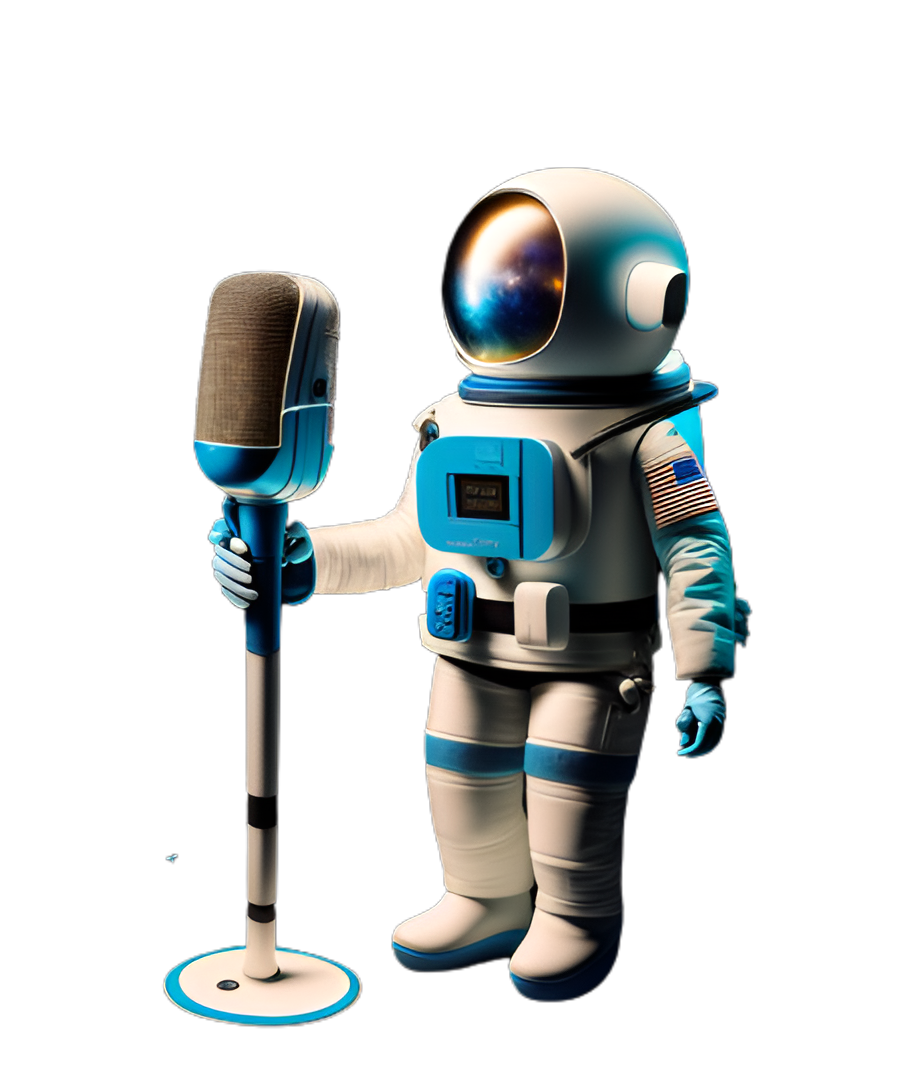
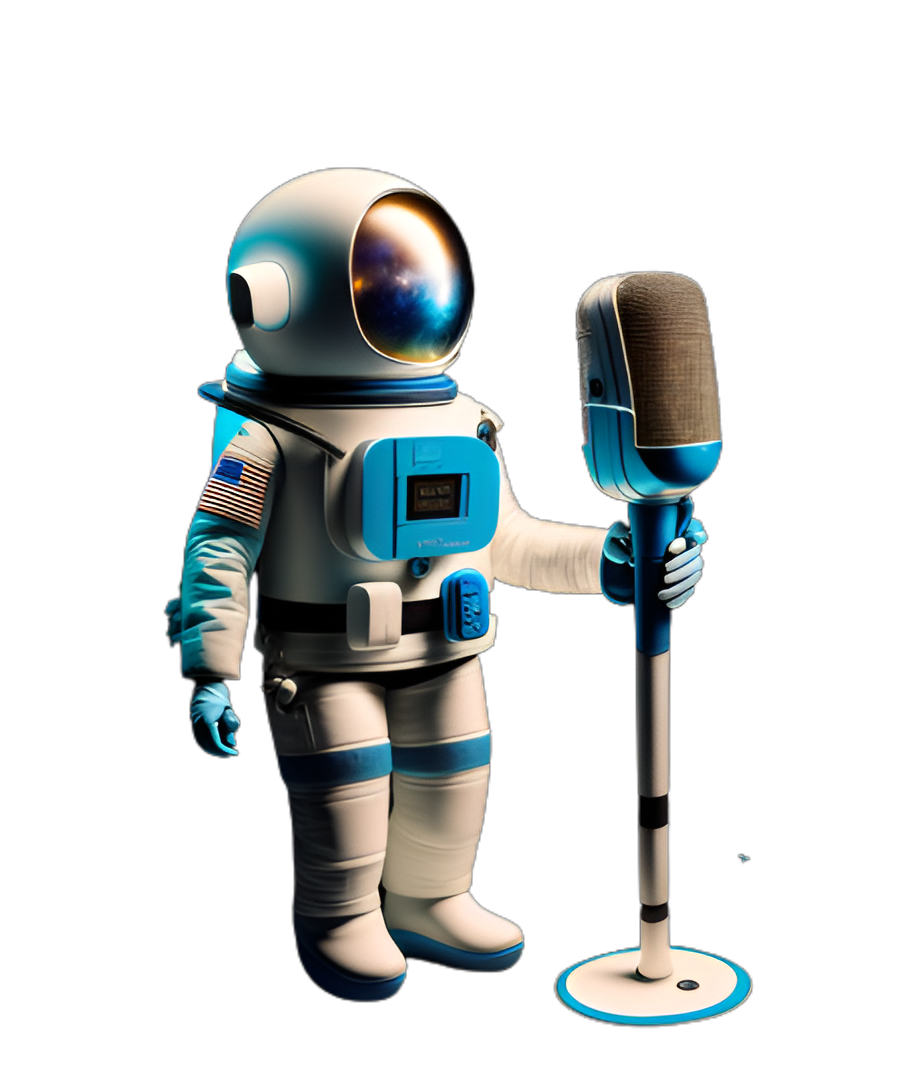
Changes video embed and services style

diff --git a/index.html b/index.html
@@ -116,59 +116,77 @@
 
   <section class="services-sec" id="services">
     <div class="services-text-container">
-      <div class="service-text-container">
-        <img src="./static/product_demo_img.png" alt="product_demo_img" class="mobile_view_services_img">
-        <h1> <span> Product Demo </span> Video <span class="showRight-animate"></span></h1>
-        <p data-aos="fade-zoom-in">Create compelling promo videos that leave a lasting impression, captivating audiences, and driving conversions for your business by connecting, intriguing, and motivating them to take action.</p>
+      <div class="service-container s-right">
+        <div class="services-img-container si-right" data-tilt data-tilt-full-page-listening>
+          <img data-aos="fade-zoom-in" src="./static/product_demo_img.png" alt="product_demo_img" class="services_img">
+        </div>
+        <div class="service-text-container st-left">
+          <h1> <span> Product Demo </span> Video <span class="showRight-animate"></span></h1>
+          <p data-aos="fade-zoom-in">Create compelling promo videos that leave a lasting impression, captivating audiences, and driving conversions for your business by connecting, intriguing, and motivating them to take action.</p>
+        </div>
       </div>
-      <div class="service-text-container">
-        <img src="./static/social_media_videos_img.png" alt="social_media_videos_img" class="mobile_view_services_img">
-        <h1> <span> Social Media </span> Videos <span class="showRight-animate"></span></h1>
-        <p data-aos="fade-zoom-in">Engage and captivate your audience with dynamic social media video content offering an interactive and immersive experience that enhances brand exposure and user engagement.</p>
+      <div class="service-container">
+        <div class="services-img-container si-left" data-tilt data-tilt-full-page-listening>
+          <img data-aos="fade-zoom-in" src="./static/social_media_videos_img.png" alt="social_media_videos_img" class="services_img">
+        </div>
+        <div class="service-text-container st-right">
+          <h1> <span> Social Media </span> Videos <span class="showRight-animate"></span></h1>
+          <p data-aos="fade-zoom-in">Engage and captivate your audience with dynamic social media video content offering an interactive and immersive experience that enhances brand exposure and user engagement.</p>
+        </div>
       </div>
-      <div class="service-text-container">
-        <img src="./static/explainer_videos_img.png" alt="explainer_videos_img" class="mobile_view_services_img">
-        <h1> <span> Explainer </span> Videos <span class="showRight-animate"></span></h1>
-        <p data-aos="fade-zoom-in">Explainer videos show your customers how your product or service works and why it adds value. It answers the essentials - who, what, where, why and how?</p>
+      <div class="service-container s-right">
+        <div class="services-img-container si-right" data-tilt data-tilt-full-page-listening>
+          <img data-aos="fade-zoom-in" src="./static/explainer_videos_img.png" alt="explainer_videos_img" class="services_img">
+        </div>
+        <div class="service-text-container st-left">
+          <h1> <span> Explainer </span> Videos <span class="showRight-animate"></span></h1>
+          <p data-aos="fade-zoom-in">Explainer videos show your customers how your product or service works and why it adds value. It answers the essentials - who, what, where, why and how?</p>
+        </div>
       </div>
-      <div class="service-text-container">
-        <img src="./static/host_img.png" alt="host_img" class="mobile_view_services_img">
-        <h1> <span> Host </span> <span class="showRight-animate"></span></h1>
-        <p data-aos="fade-zoom-in">Vir shines as an accomplished actor, captivating host, and charismatic voice-over talent. With a magnetic presence Vir brings boundless energy and unforgettable experiences, both on stage and screen, leaving a lasting impact on audiences.</p>
+      <div class="service-container">
+        <div class="services-img-container si-left" data-tilt data-tilt-full-page-listening>
+          <img data-aos="fade-zoom-in" src="./static/host_img.png" alt="host_img" class="services_img">
+        </div>
+        <div class="service-text-container st-right">
+          <h1> <span> Host </span> <span class="showRight-animate"></span></h1>
+          <p data-aos="fade-zoom-in">Vir shines as an accomplished actor, captivating host, and charismatic voice-over talent. With a magnetic presence Vir brings boundless energy and unforgettable experiences, both on stage and screen, leaving a lasting impact on audiences.</p>
+        </div>
       </div>
-      <div class="service-text-container">
-        <img src="./static/event_video_production_img.png" alt="event_video_production_img" class="mobile_view_services_img">
-        <h1> <span> Event Video </span> Production <span class="showRight-animate"></span></h1>
-        <p data-aos="fade-zoom-in">Whether it's Award Ceremony Videos, Conference Videos, Publicity Event Videos, Launch Party Videos, or Vox Pops Videos, we have it all covered for you.</p>
+      <div class="service-container s-right">
+        <div class="services-img-container si-right" data-tilt data-tilt-full-page-listening>
+          <img data-aos="fade-zoom-in" src="./static/event_video_production_img.png" alt="event_video_production_img" class="services_img">
+        </div>
+        <div class="service-text-container st-left">
+          <h1> <span> Event Video </span> Production <span class="showRight-animate"></span></h1>
+          <p data-aos="fade-zoom-in">Whether it's Award Ceremony Videos, Conference Videos, Publicity Event Videos, Launch Party Videos, or Vox Pops Videos, we have it all covered for you.</p>
+        </div>
       </div>
-      <div class="service-text-container">
-        <img src="./static/social_media_management_img.png" alt="social_media_management_img" class="mobile_view_services_img">
-        <h1> <span> Social Media </span> Management <span class="showRight-animate"></span></h1>
-        <p data-aos="fade-zoom-in">We are aiming to communicate & amplify your brands voice and mission on social media to reach as many people as possible.</p>
+      <div class="service-container">
+        <div class="services-img-container si-left" data-tilt data-tilt-full-page-listening>
+          <img data-aos="fade-zoom-in" src="./static/social_media_management_img.png" alt="social_media_management_img" class="services_img">
+        </div>
+        <div class="service-text-container st-right">
+          <h1> <span> Social Media </span> Management <span class="showRight-animate"></span></h1>
+          <p data-aos="fade-zoom-in">We are aiming to communicate & amplify your brands voice and mission on social media to reach as many people as possible.</p>
+        </div>
       </div>
     </div>
-    <div class="services-img-container" data-tilt data-tilt-full-page-listening>
-      <!-- <img src="./static/frame_top_img.svg" alt="frame_top_img" id="frame_top_img">
-      <div class="rectangular-frame">
-        <img src="./static/video_ads_img.svg" alt="video_ads_img" id="frame_inside_img">
-      </div>
-      <img src="./static/frame_bottom_front_img.svg" alt="frame_bottom_front_img" id="frame_bottom_front_img">
-      <img src="./static/frame_bottom_back_img.svg" alt="frame_bottom_back_img" id="frame_bottom_back_img"> -->
+    <!-- <div class="services-img-container" data-tilt data-tilt-full-page-listening>
       <img src="./static/product_demo_img.png" alt="product_demo_img" id="frame_inside_img">
-    </div>
+    </div> -->
   </section>
 
-  <section>
+  <section id="video_container">
     <h1 class="video_container_heading">Some of our work... <span class="showRight-animate"></span></h1>
     <div class="video_container">
-      <iframe data-aos="fade-right" src="https://www.youtube.com/embed/8PwX65BLBvc?vq=hd1080" title="YouTube video player" frameborder="0" allow="accelerometer; autoplay; clipboard-write; encrypted-media; gyroscope; picture-in-picture; web-share" allowfullscreen></iframe>
-      <iframe data-aos="fade-left" src="https://www.youtube.com/embed/cpikYyQ4bn4?vq=hd1080" title="YouTube video player" frameborder="0" allow="accelerometer; autoplay; clipboard-write; encrypted-media; gyroscope; picture-in-picture; web-share" allowfullscreen></iframe>
-      <iframe data-aos="fade-right" src="https://player.vimeo.com/video/785447476?h=6ea975ba4e&title=0&byline=0&portrait=0&quality=1080p" title="vimeo-player" frameborder="0" allowfullscreen></iframe>
-      <!-- <iframe data-aos="fade-right" src="https://drive.google.com/file/d/1X8IojxZmvGGHUOEhP70N3ZeSogzah58J/preview?vq=hd1080" allow="autoplay" frameborder="0" allowfullscreen></iframe> -->
-      <!-- <iframe data-aos="fade-left" src="https://www.youtube.com/embed/luSrhKcgix4?vq=hd1080" title="YouTube video player" frameborder="0" allow="accelerometer; autoplay; clipboard-write; encrypted-media; gyroscope; picture-in-picture; web-share" allowfullscreen></iframe> -->
-      <iframe data-aos="fade-left" src="https://www.youtube.com/embed/luSrhKcgix4?loop=1&controls=1&showinfo=0&rel=0&modestbranding=1&enablejsapi=1&wmode=transparent" frameborder="0" allowfullscreen></iframe>
+      <video data-aos="fade-right" src="static/video1.mp4" controls preload="none" title="Video player" frameBorder="0" allowFullScreen poster="static/video1_img.jpg" onClick={handlePlay}></video>
+      <video data-aos="fade-left" src="static/video2.mp4" controls preload="none" title="Video player" frameBorder="0" allowFullScreen poster="static/video2_img.png" onClick={handlePlay}></video>
+      <video data-aos="fade-right" src="static/video3.mp4" controls preload="none" title="Video player" frameBorder="0" allowFullScreen poster="static/video3_img.png" onClick={handlePlay}></video>
+      <video data-aos="fade-left" src="static/video4.mp4" controls preload="none" title="Video player" frameBorder="0" allowFullScreen poster="static/video4_img.jpg" onClick={handlePlay}></video>
+      <video data-aos="fade-right" src="static/video5.mp4" controls preload="none" title="Video player" frameBorder="0" allowFullScreen poster="static/video5_img.png" onClick={handlePlay}></video>
+      <video data-aos="fade-left" src="static/video6.mp4" controls preload="none" title="Video player" frameBorder="0" allowFullScreen poster="static/video6_img.png" onClick={handlePlay}></video>
     </div>
-    </section>
+  </section>
 
   <section class="content_market_place_sec">
     <h1><span>A match made in Content marketing heaven.</span> <span class="showRight-animate"></span></h1>
@@ -200,34 +218,6 @@
   <script src="./cursor.js"></script>
   <script>
     AOS.init();
-  </script>
-  <script>
-    function loadYouTubePlayerAPI(callback) {
-      const tag = document.createElement('script');
-      tag.src = 'https://www.youtube.com/iframe_api';
-      const firstScriptTag = document.getElementsByTagName('script')[0];
-      firstScriptTag.parentNode.insertBefore(tag, firstScriptTag);
-      window.onYouTubeIframeAPIReady = callback;
-    }
-
-    function createYouTubePlayer() {
-      const player = new YT.Player('youtube-player', {
-        height: '315',
-        width: '560',
-        playerVars: {
-          autoplay: 0,
-          loop: 1,
-          controls: 1,
-          showinfo: 0,
-          modestbranding: 1,
-          playsinline: 1,
-          origin: window.location.origin,
-          enablejsapi: 1,
-          wmode: 'transparent',
-          vq: 'hd1080',
-        },
-      });
-    }
   </script>
 </body>
 </html>

diff --git a/script.js b/script.js
@@ -57,45 +57,45 @@ window.addEventListener('scroll', function() {
     document.querySelector('.floating-meet-btn').style.display = 'block';
   }
 
-  if (scrollTop >= sectionOffset && scrollTop <= sectionOffset + sectionHeight - windowHeight) {
-    servicesImgContainer.style.position = 'fixed';
-    servicesImgContainer.style.top = '0';
-  }
-  else if (scrollTop >= sectionOffset + sectionHeight - windowHeight) {
-    servicesImgContainer.style.position = 'absolute';
-    servicesImgContainer.style.top = 'auto';
-    servicesImgContainer.style.bottom = '0';
-  }
-  else {
-    servicesImgContainer.style.position = 'absolute';
-    servicesImgContainer.style.top = '0';
-    servicesImgContainer.style.bottom = 'auto';
-  }
+  // if (scrollTop >= sectionOffset && scrollTop <= sectionOffset + sectionHeight - windowHeight) {
+  //   servicesImgContainer.style.position = 'fixed';
+  //   servicesImgContainer.style.top = '0';
+  // }
+  // else if (scrollTop >= sectionOffset + sectionHeight - windowHeight) {
+  //   servicesImgContainer.style.position = 'absolute';
+  //   servicesImgContainer.style.top = 'auto';
+  //   servicesImgContainer.style.bottom = '0';
+  // }
+  // else {
+  //   servicesImgContainer.style.position = 'absolute';
+  //   servicesImgContainer.style.top = '0';
+  //   servicesImgContainer.style.bottom = 'auto';
+  // }
 
-  if(scrollTop <= sectionOffset + windowHeight/2){
-    frameInsideImg.src = "./static/product_demo_img.png";
-    frameInsideImg.alt = "product_demo_img";
-  }
-  else if(scrollTop > sectionOffset + windowHeight/2 && scrollTop <= sectionOffset + (3/2)*windowHeight){
-    frameInsideImg.src = "./static/social_media_videos_img.png";
-    frameInsideImg.alt = "social_media_videos_img";
-  }
-  else if(scrollTop > sectionOffset + (3/2)*windowHeight && scrollTop <= sectionOffset + (5/2)*windowHeight){
-    frameInsideImg.src = "./static/explainer_videos_img.png";
-    frameInsideImg.alt = "explainer_videos_img";
-  }
-  else if(scrollTop > sectionOffset + (5/2)*windowHeight && scrollTop <= sectionOffset + (7/2)*windowHeight){
-    frameInsideImg.src = "./static/host_img.png";
-    frameInsideImg.alt = "host_img";
-  }
-  else if(scrollTop > sectionOffset + (7/2)*windowHeight && scrollTop <= sectionOffset + (9/2)*windowHeight){
-    frameInsideImg.src = "./static/event_video_production_img.png";
-    frameInsideImg.alt = "event_video_production_img";
-  }
-  else{
-    frameInsideImg.src = "./static/social_media_management_img.png";
-    frameInsideImg.alt = "social_media_management_img";
-  }
+  // if(scrollTop <= sectionOffset + windowHeight/2){
+  //   frameInsideImg.src = "./static/product_demo_img.png";
+  //   frameInsideImg.alt = "product_demo_img";
+  // }
+  // else if(scrollTop > sectionOffset + windowHeight/2 && scrollTop <= sectionOffset + (3/2)*windowHeight){
+  //   frameInsideImg.src = "./static/social_media_videos_img.png";
+  //   frameInsideImg.alt = "social_media_videos_img";
+  // }
+  // else if(scrollTop > sectionOffset + (3/2)*windowHeight && scrollTop <= sectionOffset + (5/2)*windowHeight){
+  //   frameInsideImg.src = "./static/explainer_videos_img.png";
+  //   frameInsideImg.alt = "explainer_videos_img";
+  // }
+  // else if(scrollTop > sectionOffset + (5/2)*windowHeight && scrollTop <= sectionOffset + (7/2)*windowHeight){
+  //   frameInsideImg.src = "./static/host_img.png";
+  //   frameInsideImg.alt = "host_img";
+  // }
+  // else if(scrollTop > sectionOffset + (7/2)*windowHeight && scrollTop <= sectionOffset + (9/2)*windowHeight){
+  //   frameInsideImg.src = "./static/event_video_production_img.png";
+  //   frameInsideImg.alt = "event_video_production_img";
+  // }
+  // else{
+  //   frameInsideImg.src = "./static/social_media_management_img.png";
+  //   frameInsideImg.alt = "social_media_management_img";
+  // }
 });
 
 // const typedTextSpan = document.querySelector(".typed-text");

diff --git a/style.css b/style.css
@@ -457,17 +457,31 @@ span::selection{
   padding: 0;
 }
 
+.service-container{
+  width: 100vw;
+  height: 100vh;
+  display: flex;
+  justify-content: center;
+}
+
+.s-right{
+  flex-direction: row-reverse;
+}
+
 .service-text-container{
   width: 40vw;
   height: 100vh;
   display: flex;
   flex-direction: column;
   justify-content: center;
-  margin: 0 7vw 0 8vw;
 }
 
-.mobile_view_services_img{
-  display: none;
+.st-left{
+  margin: 0 6vw 0 7vw;
+}
+
+.st-right{
+  margin: 0 7vw 0 6vw;
 }
 
 .service-text-container h1{
@@ -515,13 +529,18 @@ span::selection{
   justify-content: center;
   width: 40vw;
   height: 100vh;
-  position: sticky;
-  top: 0px;
-  right: 5vw;
 }
 
-#frame_inside_img {
-  max-width: 100%;
+.si-right{
+  margin-right: 7vw;
+}
+
+.si-left{
+  margin-left: 7vw;
+}
+
+.services_img{
+  max-width: 40vw;
   max-height: 90%;
 }
 
@@ -544,7 +563,7 @@ span::selection{
   overflow-x: hidden;
 }
 
-.video_container iframe{
+.video_container video{
   width: 40vw;
   height:22.5vw;
   margin: 5vh 5vw;
@@ -777,13 +796,24 @@ span::selection{
     font-size: 2.7rem;
   }
 
+  .service-container{
+    flex-direction: column;
+  }
+
   .services-img-container {
-    display: none;
+    height: 40vh;
+    width: 80vw;
+    margin: 5vh auto;
+  }
+
+  .services_img{
+    max-width: 100%;
+    max-height: 100%;
   }
 
   .service-text-container{
     width: 80vw;
-    height: 100vh;
+    height: 60vh;
     align-items: center;
     margin: 0 10vw;
   }
@@ -797,7 +827,6 @@ span::selection{
   } */
 
   .mobile_view_services_img{
-    display: block;
     height: 30vh;
     max-width: 80vw;
     border-radius: 15px;
@@ -870,7 +899,7 @@ span::selection{
     grid-template-columns: 1fr;
   }
   
-  .video_container iframe{
+  .video_container video{
     width: 80vw;
     height: 45vw;
     margin: 5vh 10vw;
